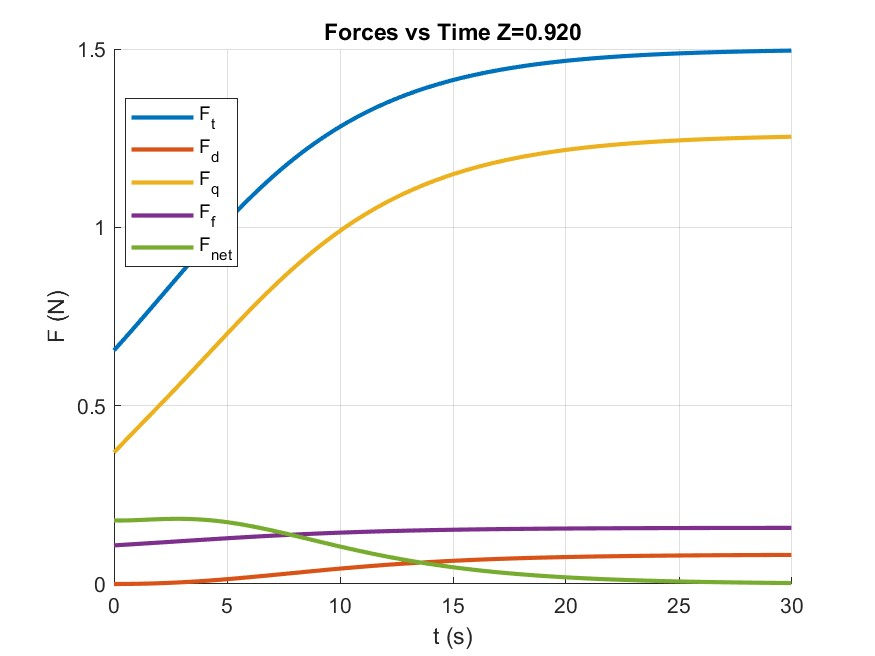
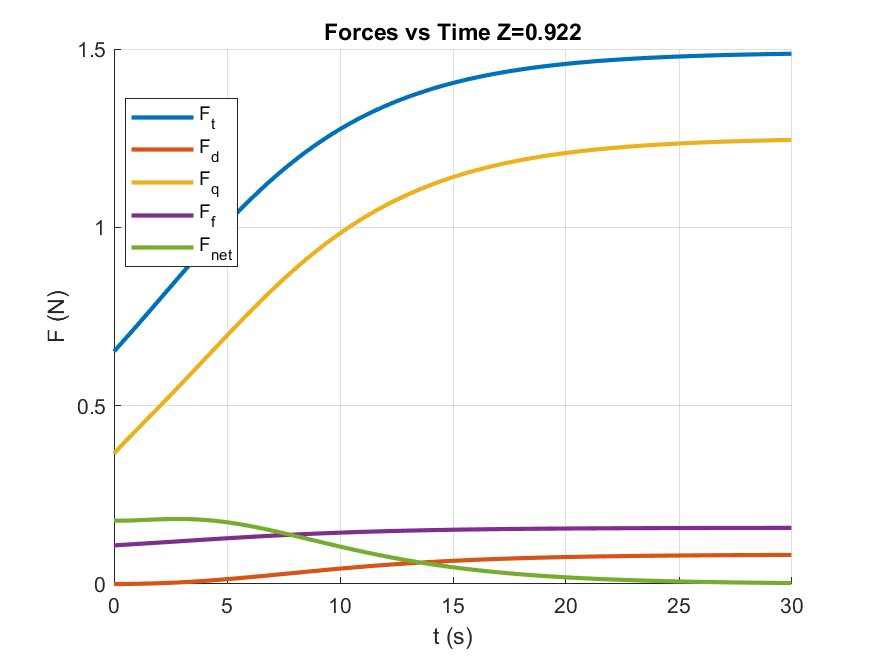
Multiple Analysis

diff --git a/Main.m b/Main.m
@@ -16,7 +16,8 @@ fan = GetAPC14x7E(fileID);
 drag = DragForce(fileID);
 friction = Experiments(fileID);
 
-analyze(fileID, Parameter(air, fan, drag, friction, 90e-3, 0.5:0.01:2, true))
+analyze(fileID, Parameter(air, fan, drag, friction, 90e-3, 0.5:0.001:2, true))
+analyze(fileID, Parameter(air, fan, drag, friction, 1, 70e-3:0.1e-3:90e-3, false))
 
 if fclose(fileID) ~= 0
     fprintf('Error while closing the file %s!\n', fileName);
@@ -38,7 +39,7 @@ function analyze(fileID, parameter)
 
     if ~isempty(fileID)
         [v_min, v_max] = fixed_parameter.vehicle(1).SpeedBoundary();
-        fprintf(fileID, 'Z=%.3f mm v_top=%.3fm/s B=[%.3f, %.3f]m/s\n', x_best, v_top, v_min, v_max);
+        fprintf(fileID, '%s v_top=%.3fm/s B=[%.3f, %.3f]m/s\n', parameter.format(x_best), v_top, v_min, v_max);
     end
 
     VelocityRelations(fixed_parameter);
